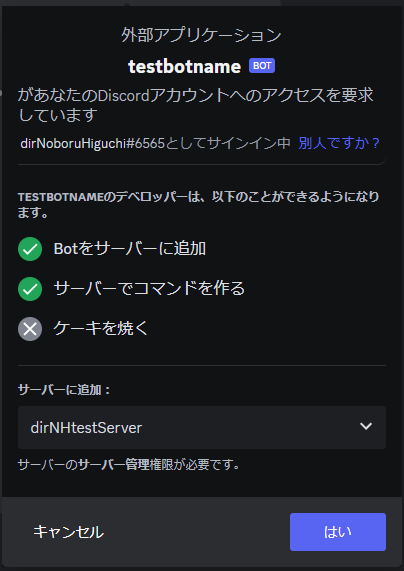
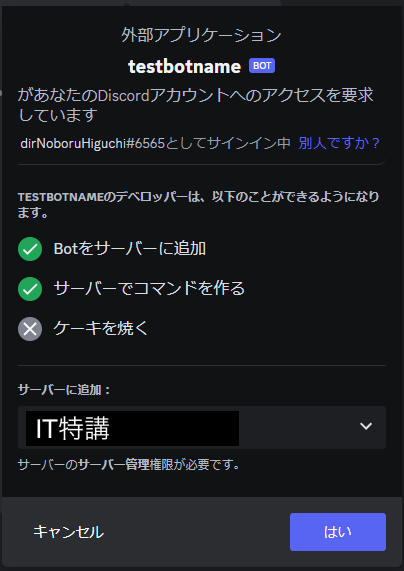
update explanation

Changed region(s): [[0.0594, 0.7145, 0.5941, 0.8039]]

diff --git a/Readme.md b/Readme.md
@@ -104,10 +104,11 @@ Discord のテキストチャットに自分の作ったプログラムを設定
    ![picture 11](doc/img/install_ext_3.png)  
 4. VS Codeが再起動し、日本語化される。  
    同様の手順で、下の拡張機能もインストールする。 (Restart のダイアログが出たら Restart する。出ないときはそのまま継続しても良い)  
-* Python Extension Pack（Pythonの開発環境）
-* indent-rainbow（見た目の調整）
-* zenkaku（見た目の調整）
-5. インストールが終わったらVS Codeを閉じる(Windowを最小化するのではなく、アプリを終了する)
+* donjayamanne.python-extension-pack （Pythonの開発環境）
+* oderwat.indent-rainbow （見た目の調整）
+* mosapride.zenkaku （見た目の調整）
+1. インストールが終わったらVS Codeを閉じる(Windowを最小化するのではなく、アプリを終了する)
+   1. タスクバーでピン留めしておくと後々楽です
 
 #### 3-2-4. Python のインストール
 
@@ -142,12 +143,18 @@ VS Codeのターミナルで以下のコードを実行する
    ```
 #### 4-1-3. リポジトリをクローン (インターネット上のプログラムのダウンロード)
    ```ps
+   git config --global http.sslVerify false
+   ```
+   ```ps
    git clone https://github.com/dir-tajiisam/discord-bot-sample
    ```
    ```ps
    cd ./discord-bot-sample
    ```
 #### 4-1-4. 仮想環境にライブラリをインストールする
+   ```ps
+   pip install pipenv
+   ```
    ```ps
    pipenv sync
    ```
@@ -166,26 +173,28 @@ VS Codeのターミナルで以下のコードを実行する
    ![picture 45](doc/img/create_discord_bot_2.png)  
 5. 左のメニューから『Bot』を選択し、表示された画面で『Reset Token』ボタンを押してトークンをリセットする。  ※このトークンは後ほどソースコード内で利用する
    ![picture 46](doc/img/create_discord_bot_3.png)  
-7. ブラウザに戻り「Privileged Gateway Intents」の権限を付与するため、以下3項目のチェックをONにする  
+6. ブラウザに戻り、少し下の方に「Privileged Gateway Intents」がある。権限を付与するため、以下3項目のチェックをONにする  
 - PRESENCE INTENT
 - SERVER MEMBERS INTENT
 - MESSAGE CONTENT INTENT
 ![picture 46](doc/img/discord_004.png)  
+7. 「Careful」のダイアログが表示されたら「Save Changes」を押す
 
 #### 4-2-2. Discord Botをサーバに参加させる
 1. 左のメニューから『OAuth2』を選択し、下に表示される『URL Generator』を選択
-2. 『SCOPES』内の『Bot』にチェックする  
+2. 『SCOPES』内の『bot』にチェックする  
 ![picture 48](doc/img/create_discord_bot_5.png)  
 3. 画面を下にスクロールするとBotに与える権限のリストが表示されるので、必要な権限にチェックを入れる  
 ![picture 49](doc/img/create_discord_bot_6.png)  
    必要な権限は以下
    * Send Messages
-4. 更に下にスクロールすると認証用URL（『GENERATED URL』）が表示されているのでアクセスする  
+4. 更に下にスクロールすると認証用URL（『GENERATED URL』）が表示されているので、コピーして、ブラウザのタブを開いて、そのURLにアクセスする  
    ![picture 50](doc/img/create_discord_bot_7.png)  
 5. アクセスして表示された画面でBotを追加するサーバーを選択し、『はい』を押す  
-   （先ほど作成したサーバーにBotを追加する）  
+   （先ほどログインしたサーバーにBotを追加する）  
    ![picture 51](doc/img/create_discord_bot_8.png)  
-6. 権限を与えることを承認し、スパム対策認証をするとBotがサーバに追加される
+6. 続く画面で「認証」を選択
+7. reCAPTHAで人間であることを伝える
 
 #### 4-2-3. Discordにテキストチャンネルを作成する
 1. Discord のメニューに有る自身のグループの『＋』をクリックしチャンネルを作成する  
@@ -193,21 +202,41 @@ VS Codeのターミナルで以下のコードを実行する
 2. Text チャンネルを「メールアドレスの@の前_channel」の名前で作成する  
    ![picture 51](doc/img/discord_006.png)  
 3. 以降のプログラムではこのチャンネルを使用する
+4. チャンネルを開いた状態で、URLからSERVER_IDとCHANNEL_IDを取得する  
+   URLは以下のような形式になっているので、それぞれの値をメモしておく  
+   `https://discord.com/channels/`**`SERVER_ID`**`/`**`CHANNEL_ID`**  
 
 #### 4-2-4. プログラムの実行
 1. VS Code を開く
 2. Fileメニューの「Open Folder...」からソースコードのディレクトリを開く(C:\workspace\discord-bot-sample)
    ![picture 51](doc/img/vscode_001.png)  
    ![picture 51](doc/img/vscode_002.png)  
-3. 「.env」ファイル を開き TOKEN/SERVER_ID/CHANNEL_ID を記載する
+3. 開いた際に「このフォルダー内のファイルの作成者を信頼しますか？」と聞かれる場合が、問題ないので「はい、作成者を信頼します」を選択する
+4. 「.env」ファイル を開き、先程コピーした TOKEN/SERVER_ID/CHANNEL_ID を記載する  
+   1. <と>も一緒に上書きする
    ![picture 51](doc/img/src_001.png)  
-4. 『Ctrl』+『@』でターミナルを開き以下のコマンドを実行する
+   ```
+   TOKEN = ABCDE....
+   SERVER_ID = 12345....
+   CHANNEL_ID = 67890....
+   ```
+   となればOK
+5. 最後の『Ctrl』+『s』で保存する（<span style="color: red">編集したら必ず保存をするのを忘れずに！！※今後のどのファイルでも一緒</span>）
+5. 『Ctrl』+『@』でターミナルを開き以下のコマンドを実行する
+   ```ps
+   # ターミナルを立ち上げたら、以下のコマンドを実行する。今後も一緒。
+   pipenv shell
+   ```
    ```ps
    python app.py work1
    ```
-1. 以下の表示が出れば成功（Botが起動した状態）
+6. 以下の表示が出れば成功（Botが起動した状態）
    ![picture 51](doc/img/src_002.png)  
-6. Botを止めるときはターミナル上で『Ctrl』+『C』を押す
+7. 試しに自分で作ったBotにメンションをして話しかけてみよう！
+   ```
+   @メールアドレスの@の前_bot こんにちは
+   ```
+8. Botを止めるときはターミナル上で『Ctrl』+『C』を押す
 
 
 ## 5. 課題
